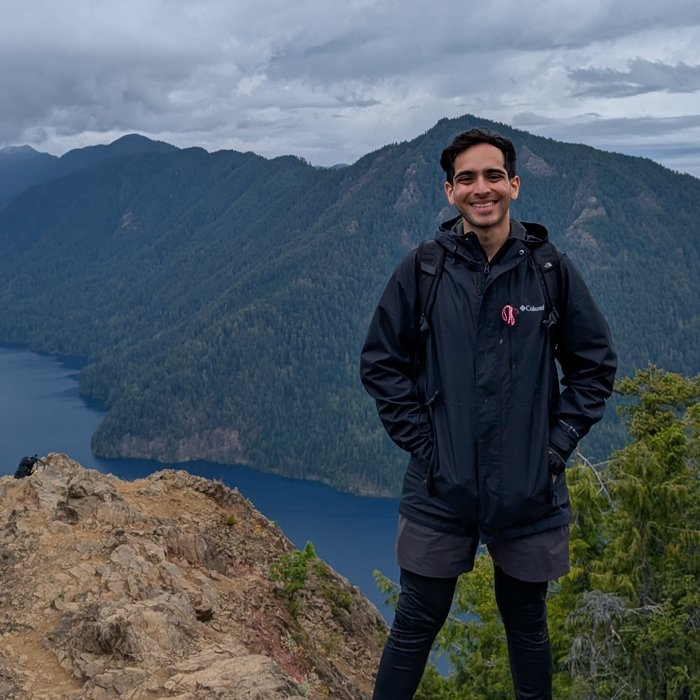
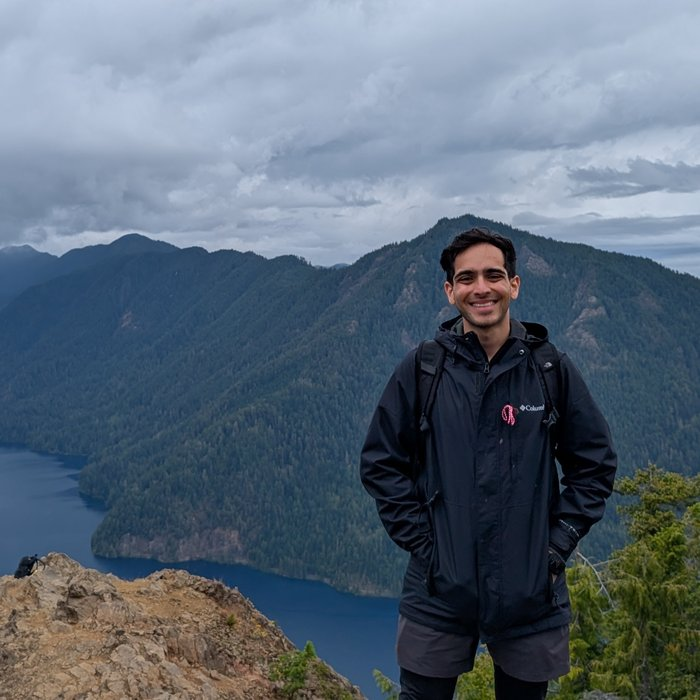
Profile photo: more sky, and a larger circle
Claude-Session: https://claude.ai/code/session_01KUkN2gbs8hSncR4ZF2z6Zk

diff --git a/css/style.css b/css/style.css
@@ -112,8 +112,8 @@ a.navbar-text:hover {
 }
 
 .dp_image {
-	width: 10em;
-	height: 10em;
+	width: 14em;
+	height: 14em;
 	border-radius: 50%;
 	object-fit: cover;
 	box-shadow: 0 1em 2em rgba(0, 0, 0, 0.3);
